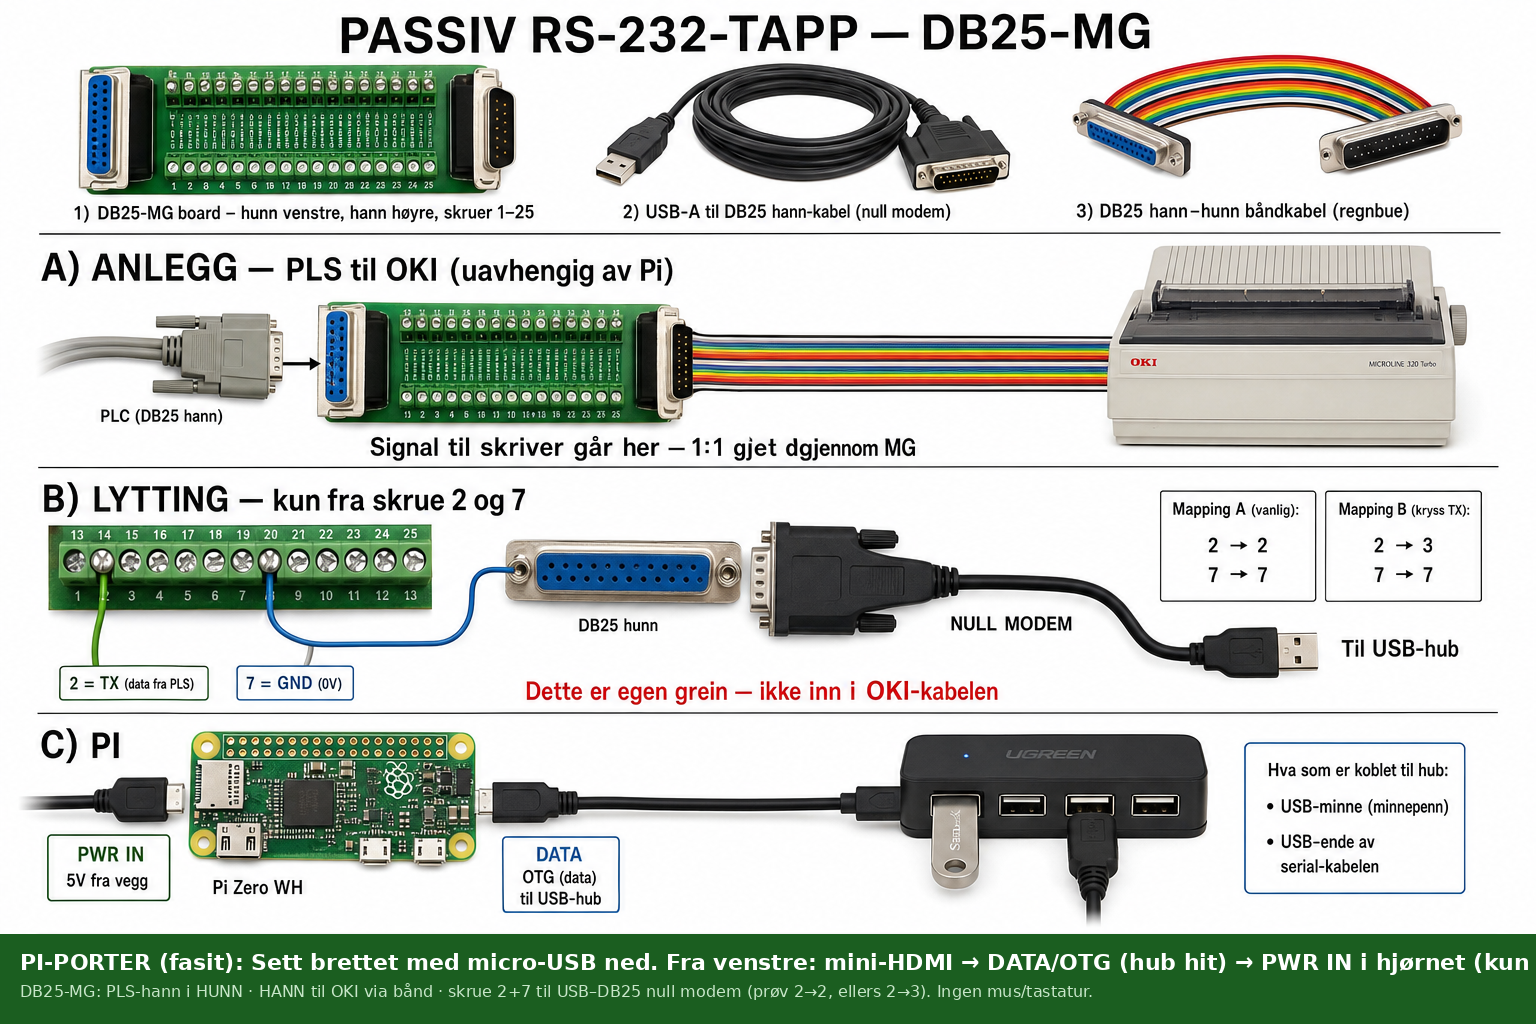
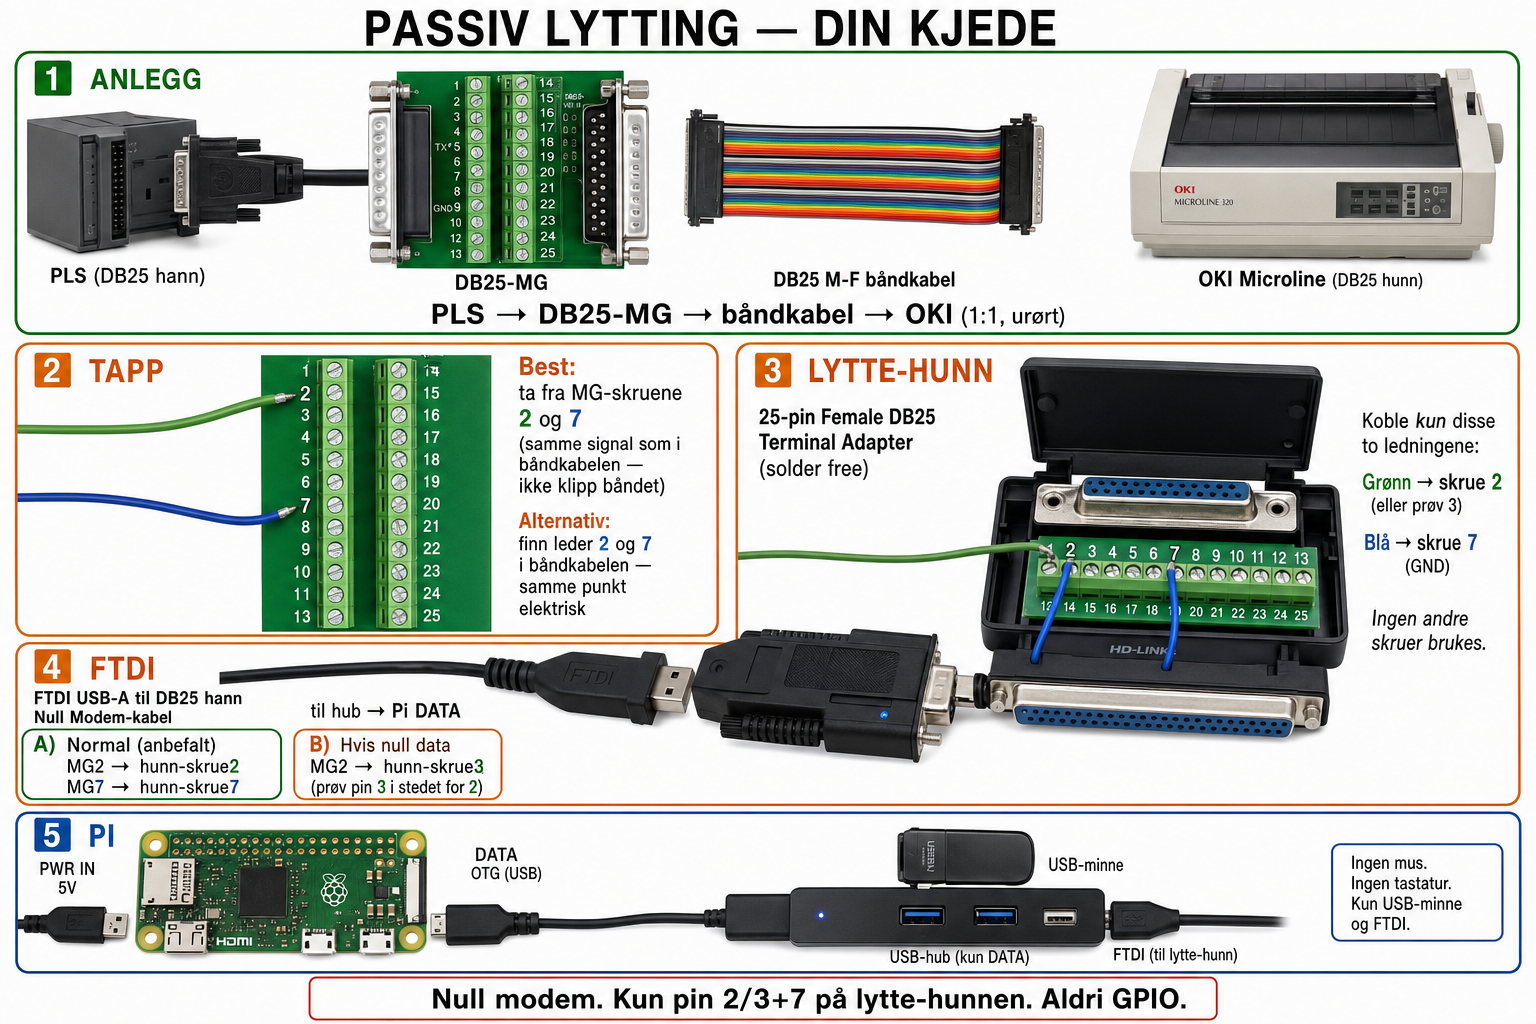
Bekreft lytteplan: MG 2+7 → hunn-breakout → FTDI null modem
Tapp fra MG-skruer (ikke klipp bånd). Null modem A/B.

diff --git a/docs/no/wiring.md b/docs/no/wiring.md
@@ -1,57 +1,62 @@
 # Kobling
 
-<img src="img/passiv-rs232-tapp.png" width="100%" alt="AI-foto: DB25-MG — anlegg / lytting / Pi adskilt"/>
+<img src="img/passiv-rs232-tapp.png" width="100%" alt="Lytting: MG skrue 2+7 → hunn-breakout → FTDI null modem → Pi"/>
 
-<img src="img/tapp-deler-korrekt.png" width="100%" alt="Deler som skal se slik ut"/>
-
-## Midtpunktet: DB25-MG (ikke en løs «M↔F-kloss»)
-
-Du har **DB25-MG Ver 1.1**: grønt board med **HUNN + HANN + skrueterminaler 1–25**.  
-Det er både pass-through *og* tapp. Det er **ikke** en separat metall-gender-changer tegnet «i inngrep» mellom to tilfeldige kabler.
+## Din plan — ja, slik
 
 ```text
-PLS DB25 HANN  ──i inngrep──►  DB25-MG HUNN
-                                    │
-                                    ├── alle pinner 1:1 ──► DB25-MG HANN ──► skjøt/bånd ──► OKI
-                                    │
-                                    └── skrue 2 (TX) + skrue 7 (GND) ──ledninger──► lytteende
+PLS DB25 HANN
+      │
+      ▼ i inngrep
+DB25-MG (hunn + hann + skruer)
+      │
+      ├── HANN ── båndkabel M↔F (1:1) ──► OKI
+      │
+      └── skrue 2 (TX) + skrue 7 (GND)
+                │
+                ▼ DuPont / ledning
+DB25 HUNN terminal-adapter (solder free)
+      │  kun skrue 2 (eller 3) + skrue 7
+      ▼ i inngrep
+FTDI USB→DB25 HANN (null modem)
+      │
+      ▼ USB-A
+USB-hub → OTG → Pi DATA
 ```
 
-## Lytteende
+**Best:** ta TX/GND fra **MG-skrue 2 og 7** (samme signal som i båndkabelen til skriver).  
+Da slipper du å klippe/skjøte i båndkabelen. Båndet får stå urørt 1:1 til OKI.
+
+Å «lytte fra båndkabelen» er elektrisk det samme — men mer rotete (finne farge/leder). Bruk skruene.
+
+## Lytte-hunnen + FTDI
 
 | Del | Rolle |
 |-----|--------|
-| USB→DB25 **hann**, **null modem** | Inn i en **DB25 hunn** (skruer eller hunn-ende av bånd) |
-| Ledning fra MG-skrue **2** | Til lytte-hunn pin **2** (prøv først) eller **3** |
-| Ledning fra MG-skrue **7** | Til lytte-hunn pin **7** |
-| USB-A | Inn i **USB-hub** → OTG **hunn** → Pi **DATA** (midtre micro-USB) |
-
-Ledninger festes i **skruer / hunn-pinner**. Ikke stikk dem inn i siden på metalskallet.
+| DB25 **hunn** terminal breakout (solder free) | Tar imot FTDI-hannen; skruer for pin 2/3/7 |
+| FTDI USB→DB25 **hann** **null modem** | Plugges i hunnen → hub → Pi |
+| DuPont F–F | MG-skrue → lytte-hunn-skrue |
 
 ### Null modem
 
-| | MG-skrue | → | USB–DB25 |
-|--|----------|---|----------|
-| **A først** | 2 TX | → | pin **2** |
-| | 7 GND | → | pin **7** |
-| **B hvis null data** | 2 TX | → | pin **3** |
-| | 7 GND | → | pin **7** |
+| | Fra MG | → | Lytte-hunn (mot FTDI) |
+|--|--------|---|------------------------|
+| **A først** | skrue **2** TX | → | skrue **2** |
+| | skrue **7** GND | → | skrue **7** |
+| **B hvis null data** | skrue **2** TX | → | skrue **3** |
+| | skrue **7** GND | → | skrue **7** |
 
-## Pi-porter
+La alle andre skruer på lytte-hunnen stå **tomme** (ikke koble FTDI sin TX ut tilbake til anlegget).
 
-| Port | Bruk |
-|------|------|
-| **PWR IN** (hjørne) | Kun 5V / ≥2,5 A vegglader |
-| **DATA** (midt) | OTG micro-USB → USB-A hunn ← hub hann |
+## Pi
 
-Hub: USB→DB25 (+ evt. minnepenn). Tastatur valgfritt — ikke nødvendig på koblingsplakat.
+| Port | |
+|------|--|
+| **PWR IN** (hjørne) | 5V / ≥2,5 A |
+| **DATA** (midt) | OTG → hub → FTDI (+ evt. minnepenn) |
 
-## Ikke
+Ikke GPIO. Test: `python3 read_package.py --raw-capture --port /dev/ttyUSB0`
 
-- GPIO / parallellport / TTL-«ELLER»-kort  
-- Hub eller OTG i PWR IN  
-- Fantasi-strømplugger  
-
-Test: `python3 read_package.py --raw-capture --port /dev/ttyUSB0`
+<img src="img/tapp-deler-korrekt.png" width="100%" alt="Deler-referanse"/>
 
 *English: [docs/en/wiring.md](../en/wiring.md)*

diff --git a/docs/en/wiring.md b/docs/en/wiring.md
@@ -1,31 +1,22 @@
 # Wiring
 
-<img src="img/passive-rs232-tap.png" width="100%" alt="Correct: DB25-MG center, null modem, Pi DATA"/>
+<img src="img/passive-rs232-tap.png" width="100%" alt="Listen: MG screws 2+7 → female breakout → FTDI null modem → Pi"/>
 
-## Center piece: DB25-MG (not a loose gender-changer block)
-
-You have **DB25-MG Ver 1.1**: green board with **FEMALE + MALE + screw terminals 1–25**.
-That is both pass-through and tap.
+## Your plan — yes
 
 ```text
-PLC DB25 MALE  --mated-->  DB25-MG FEMALE
-                                │
-                                ├── all pins 1:1 --> DB25-MG MALE --> extension --> OKI
-                                │
-                                └── screw 2 (TX) + screw 7 (GND) --wires--> listen end
+PLC DB25 MALE → DB25-MG (F+M+screws) → ribbon 1:1 → OKI
+                     screws 2 (TX) + 7 (GND)
+                              ↓
+              DB25 FEMALE terminal adapter (solder-free)
+                              ↓ mated
+              FTDI USB→DB25 MALE (null modem) → hub → Pi DATA
 ```
 
-## Listen end
+Prefer tapping from **MG screws 2 and 7** (same signals as in the ribbon — don’t cut the ribbon).
 
-USB→DB25 **male** **null modem** plugs into a **DB25 female**. Wires from MG screws 2 and 7 into that female (pins per table). USB-A → hub → OTG female → Pi **DATA** (middle micro-USB).
+Null modem: try MG 2 → listen screw **2**, 7→7 first; if no data use listen screw **3** for TX. Leave other listen screws empty.
 
-| | MG screw | → | USB–DB25 |
-|--|----------|---|----------|
-| **A first** | 2 TX | → | pin **2** |
-| | 7 GND | → | pin **7** |
-| **B if no data** | 2 TX | → | pin **3** |
-| | 7 GND | → | pin **7** |
-
-PWR IN = power only. Never GPIO. No fantasy side-jab wires into connector shells.
+PWR IN = power only. DATA = OTG → hub. Not GPIO.
 
 *Norwegian: [docs/no/wiring.md](../no/wiring.md)*
